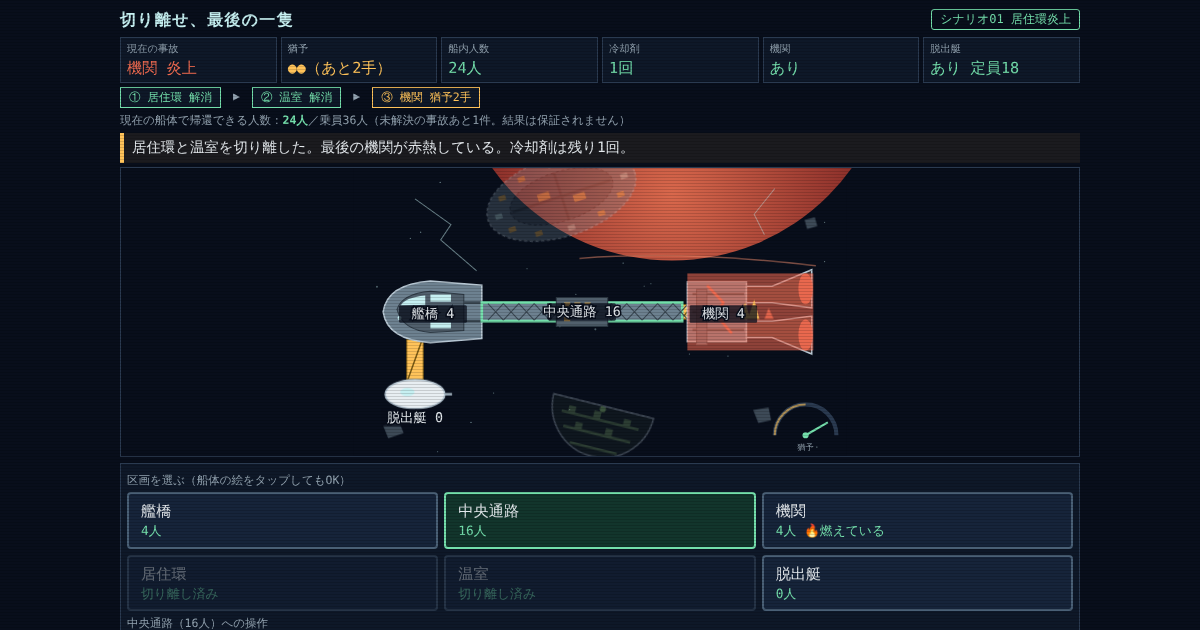
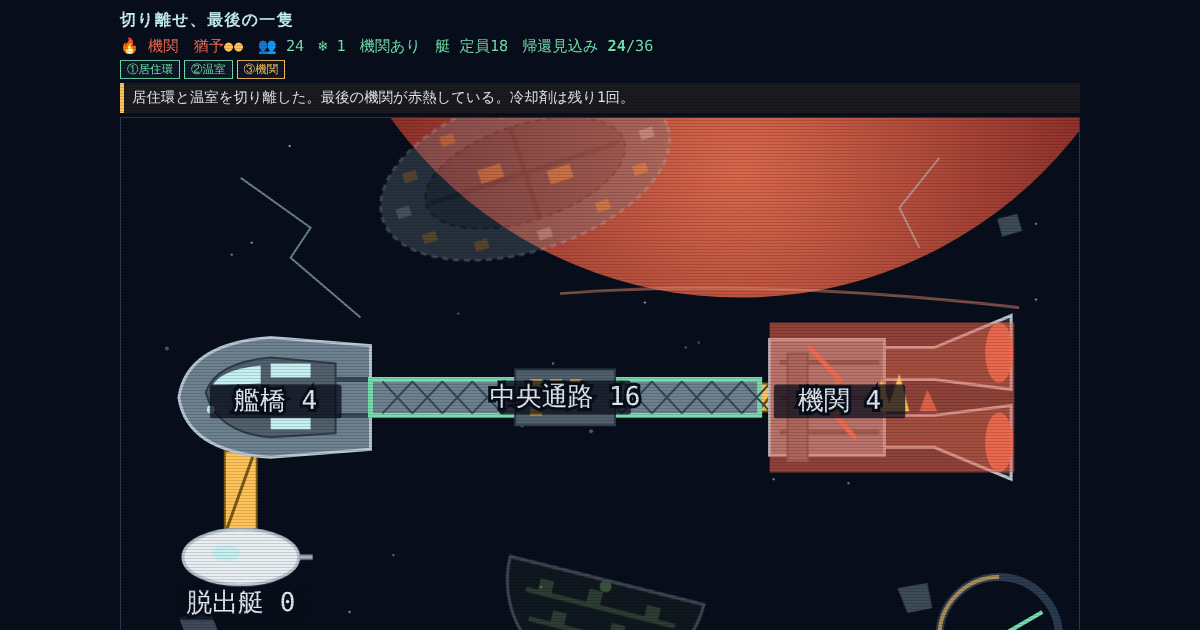
[FIX] 切り離せ、最後の一隻：文字を減らして船の絵を主役に
Claude-Session: https://claude.ai/code/session_01MokQntdd3n6K58QCqVKUx1

diff --git a/site/games/last-hull/game.js b/site/games/last-hull/game.js
@@ -35,7 +35,7 @@ const cutsOf = (s, c) => {
   return out.filter((k) => preview(s, { type: 'cut', child: k }).valid);
 };
 
-function initialGuide() { return '居住環を選び、8人を中央通路へ逃がそう。目的：機関か脱出艇に人を残したまま、全事故を解消して帰還する。'; }
+function initialGuide() { return '🔥 居住環が燃えている。人を逃がすか、切り離せ。'; }
 
 function pendingPreview() {
   if (!ui.pending) return null;
@@ -78,26 +78,22 @@ function renderShip() {
 function renderStatus() {
   const sc = scenarioById(state.scenario);
   const inc = currentIncident(state);
-  const turns = inc ? '●'.repeat(state.turns) + '○'.repeat(Math.max(0, inc.turns - state.turns)) + `（あと${state.turns}手）` : '—';
-  const cells = [
-    ['現在の事故', inc ? `${NAMES[inc.at]} 炎上` : state.result?.outcome === 'lost' ? '船喪失' : '解消', inc ? 'bad' : ''],
-    ['猶予', turns, inc && state.turns <= 1 ? 'bad' : inc ? 'warn' : ''],
-    ['船内人数', `${remaining(state)}人`, ''],
-    ['冷却剤', `${state.coolant}回`, state.coolant ? '' : 'warn'],
-    ['機関', hasEngine(state) ? 'あり' : '喪失', hasEngine(state) ? '' : 'bad'],
-    ['脱出艇', hasPod(state) ? `あり 定員${sc.pod}` : '喪失', hasPod(state) ? '' : 'bad'],
+  const turns = inc ? '●'.repeat(state.turns) + '○'.repeat(Math.max(0, inc.turns - state.turns)) : '';
+  const items = [
+    inc ? `<span class="it bad" title="現在の事故と猶予">🔥 ${NAMES[inc.at]}　猶予<em class="${state.turns <= 1 ? 'bad' : 'warn'}">${turns}</em></span>`
+      : `<span class="it">${state.result?.outcome === 'lost' ? '船喪失' : '事故解消'}</span>`,
+    `<span class="it" title="船内人数">👥 ${remaining(state)}</span>`,
+    `<span class="it ${state.coolant ? '' : 'warn'}" title="冷却剤の残り">❄ ${state.coolant}</span>`,
+    `<span class="it ${hasEngine(state) ? '' : 'bad'}" title="機関">機関${hasEngine(state) ? 'あり' : 'なし'}</span>`,
+    `<span class="it ${hasPod(state) ? '' : 'bad'}" title="脱出艇（定員）">${hasPod(state) ? `艇 定員${sc.pod}` : '艇なし'}</span>`,
   ];
+  if (state.phase === 'play') items.push(`<span class="it" title="現在の船体で帰還できる人数（残りの事故しだいで変わる）">帰還見込み <strong>${projectedReturn(state)}</strong>/${TOTAL}</span>`);
   const chain = sc.incidents.map((x, i) => {
     const cls = state.skipped.includes(i) ? 'skip' : state.resolved.includes(i) ? 'done' : (inc && i === state.incident) ? 'now' : '';
-    const mark = state.skipped.includes(i) ? '切断済み' : state.resolved.includes(i) ? '解消' : `猶予${x.turns}手`;
-    return `<span class="chip ${cls}">${'①②③'[i]} ${NAMES[x.at]} ${mark}</span>`;
-  }).join('<span class="chip" style="border:0;background:none">▶</span>');
-  const proj = state.phase === 'play'
-    ? `現在の船体で帰還できる人数：<strong>${projectedReturn(state)}人</strong>／乗員${TOTAL}人（未解決の事故あと${incidentsLeft(state)}件。結果は保証されません）`
-    : '';
-  $('status').innerHTML = cells.map(([k, v, c]) => `<div class="cell ${c}"><b>${k}</b><span>${v}</span></div>`).join('')
-    + `<div class="chain" aria-label="事故の予定">${chain}</div><div class="proj">${proj}</div>`;
-  $('scenarioTag').textContent = `シナリオ${String(sc.id).padStart(2, '0')} ${sc.name}`;
+    return `<span class="chip ${cls}" title="事故${i + 1}：${NAMES[x.at]}（猶予${x.turns}手）">${'①②③'[i]}${NAMES[x.at]}</span>`;
+  }).join('');
+  $('status').innerHTML = `<div class="strip">${items.join('')}</div><div class="chain" aria-label="事故の予定">${chain}</div>`;
+  $('scenarioTag').textContent = '';
 }
 
 const btn = (cls, label, attrs = '') => `<button type="button" class="${cls}" ${attrs}>${label}</button>`;
@@ -106,8 +102,8 @@ function scenarioButtons() {
   return SCENARIOS.map((sc) => {
     const open = isUnlocked(progress, sc.id);
     const best = progress.best[sc.id];
-    const sub = open ? (best !== undefined ? `ベスト${best}人` : '未挑戦') : unlockCondition(sc.id);
-    return btn(`sc ${state.scenario === sc.id ? 'sel' : ''}`, `シナリオ${String(sc.id).padStart(2, '0')} ${sc.name}<small style="display:block;color:var(--dim);font-size:.7rem">${sub}</small>`, `data-sc="${sc.id}" ${open ? '' : 'disabled aria-disabled="true"'}`);
+    const sub = open ? (best !== undefined ? ` 最高${best}人` : '') : '';
+    return btn(`sc small ${state.scenario === sc.id ? 'sel' : ''}`, `${open ? '' : '🔒'}${String(sc.id).padStart(2, '0')} ${sc.name}${sub}`, `data-sc="${sc.id}" title="${open ? sc.name : unlockCondition(sc.id)}" ${open ? '' : 'disabled aria-disabled="true"'}`);
   }).join('');
 }
 
@@ -116,11 +112,11 @@ function renderPanel() {
   if (state.phase === 'done') { p.innerHTML = resultHtml(); return; }
   const inc = currentIncident(state);
   const conn = connected(state);
-  let h = '<div class="lab">区画を選ぶ（船体の絵をタップしてもOK）</div><div class="row">';
+  let h = '<div class="row comps">';
   for (const c of ['C', 'H', 'E', 'L', 'G', 'P']) {
     const off = !conn.has(c);
-    h += btn(`comp ${ui.sel === c ? 'sel' : ''}`, `${NAMES[c]}<small>${off ? '切り離し済み' : `${state.people[c]}人${inc && inc.at === c ? ' 🔥燃えている' : ''}`}</small>`,
-      `data-comp="${c}" aria-pressed="${ui.sel === c}" ${off || ui.lock ? 'disabled' : ''}`);
+    h += btn(`comp ${ui.sel === c ? 'sel' : ''} ${inc && inc.at === c ? 'burning' : ''}`, `${inc && inc.at === c ? '🔥' : ''}${NAMES[c]} ${off ? '—' : state.people[c]}`,
+      `data-comp="${c}" aria-label="${NAMES[c]} ${off ? '切り離し済み' : `${state.people[c]}人`}${inc && inc.at === c ? ' 燃えている' : ''}" aria-pressed="${ui.sel === c}" ${off || ui.lock ? 'disabled' : ''}`);
   }
   h += '</div>';
   const pv = pendingPreview();
@@ -128,20 +124,18 @@ function renderPanel() {
     h += pendingHtml(pv);
   } else if (ui.sel && conn.has(ui.sel)) {
     const c = ui.sel;
-    h += `<div class="lab">${NAMES[c]}（${state.people[c]}人）への操作</div><div class="row">`;
+    h += '<div class="row">';
     for (const t of evacTargets(state, c)) {
       const pr = preview(state, { type: 'evac', from: c, to: t });
-      h += btn('go', `${NAMES[t]}へ${pr.valid ? pr.moved : 0}人避難（1手）`, `data-evac="${c}:${t}" ${!pr.valid || ui.lock ? 'disabled' : ''}`);
+      h += btn('go', `→${NAMES[t]}へ ${pr.valid ? pr.moved : 0}人`, `data-evac="${c}:${t}" title="1手使う" ${!pr.valid || ui.lock ? 'disabled' : ''}`);
     }
-    for (const k of cutsOf(state, c)) h += btn('cutbtn', `✂ ${edgeLabel(k)} を切る`, `data-cut="${k}" ${ui.lock ? 'disabled' : ''}`);
+    for (const k of cutsOf(state, c)) h += btn('cutbtn', `✂ ${edgeLabel(k)}`, `data-cut="${k}" title="切断（1手）" ${ui.lock ? 'disabled' : ''}`);
     h += '</div>';
-  } else {
-    h += '<div class="note">区画を選ぶと、避難先と切断の選択肢が出ます。</div>';
   }
   if (!pv) {
-    h += `<div class="row">${btn('cool', `❄ 冷却剤で${NAMES[inc.at]}の火を消す（手数を使わない・残り${state.coolant}回）`, `data-cool="1" ${state.coolant <= 0 || ui.lock ? 'disabled' : ''}`)}</div>`;
+    h += `<div class="row">${btn('cool', `❄ ${NAMES[inc.at]}を冷却（残${state.coolant}）`, `data-cool="1" title="手数を使わずに火を消す。全体で1回だけ" ${state.coolant <= 0 || ui.lock ? 'disabled' : ''}`)}</div>`;
   }
-  h += `<div class="row noog">${scenarioButtons()}${btn('', 'この事故をやり直す', 'data-restart="1"')}</div>`;
+  h += `<div class="row noog sub">${scenarioButtons()}${btn('small', '↺ やり直す', 'data-restart="1"')}</div>`;
   p.innerHTML = h;
 }
 

diff --git a/site/games/last-hull/style.css b/site/games/last-hull/style.css
@@ -18,25 +18,23 @@ body::after { /* 薄い走査線 */
 h1 { font-size: 1rem; margin: 0; color: var(--bridge); letter-spacing: .08em; }
 .tag { font-size: .75rem; color: var(--crt); border: 1px solid var(--crt); padding: 1px 8px; border-radius: 3px; white-space: nowrap; }
 
-.status { display: grid; grid-template-columns: repeat(6, 1fr); gap: 4px; margin: 6px 0 4px; }
-.cell { background: var(--panel); border: 1px solid var(--line); padding: 3px 6px; min-width: 0; }
-.cell b { display: block; font-size: .64rem; color: var(--dim); font-weight: 400; }
-.cell span { font-size: .95rem; color: var(--crt); }
-.cell.warn span { color: var(--amber); }
-.cell.bad span { color: var(--fire); }
-.chain { grid-column: 1 / -1; display: flex; gap: 4px; flex-wrap: wrap; font-size: .72rem; }
-.chip { border: 1px solid var(--line); padding: 1px 8px; color: var(--dim); background: var(--panel); }
+.status { margin: 4px 0; }
+.strip { display: flex; flex-wrap: wrap; gap: 4px 14px; align-items: baseline; font-size: .95rem; color: var(--crt); }
+.it { white-space: nowrap; }
+.it.warn, em.warn { color: var(--amber); } .it.bad, em.bad { color: var(--fire); }
+.it em { font-style: normal; letter-spacing: .05em; }
+.it strong { color: var(--crt); }
+.chain { display: flex; gap: 4px; flex-wrap: wrap; font-size: .72rem; margin-top: 3px; }
+.chip { border: 1px solid var(--line); padding: 0 6px; color: var(--dim); background: var(--panel); }
 .chip.now { border-color: var(--amber); color: var(--amber); }
 .chip.done { border-color: var(--crt); color: var(--crt); }
 .chip.skip { text-decoration: line-through; }
-.proj { grid-column: 1 / -1; font-size: .72rem; color: var(--dim); }
-.proj strong { color: var(--crt); }
 
 .guide { margin: 4px 0; padding: 4px 8px; border-left: 4px solid var(--amber); background: rgba(255,195,90,.08); font-size: .9rem; min-height: 2.1em; }
 .guide.bad { border-color: var(--fire); background: rgba(241,107,80,.1); }
 
 .stage { position: relative; }
-.stage svg { display: block; width: 100%; height: auto; max-height: 46vh; border: 1px solid var(--line); background: #080E1B; }
+.stage svg { display: block; width: 100%; height: auto; max-height: 60vh; border: 1px solid var(--line); background: #080E1B; }
 
 .panel { margin: 6px 0; padding: 6px; background: var(--panel); border: 1px solid var(--line); }
 .row { display: flex; flex-wrap: wrap; gap: 6px; margin: 4px 0; }
@@ -49,7 +47,10 @@ button:hover { border-color: var(--bridge); }
 button:focus-visible, .part:focus-visible { outline: 3px solid var(--amber); outline-offset: 2px; }
 button[disabled] { opacity: .4; cursor: not-allowed; }
 button.sel { border-color: var(--crt); background: #12352c; }
-button.comp { flex: 1 1 28%; min-width: 0; text-align: left; }
+button.comp { flex: 1 1 28%; min-width: 0; min-height: 36px; padding: 2px 6px; font-size: .82rem; }
+button.comp.burning { border-color: var(--fire); color: #ffd9d0; }
+button.small { min-height: 34px; font-size: .78rem; padding: 3px 8px; }
+.row.sub { opacity: .85; }
 button.comp small { display: block; color: var(--crt); font-size: .8rem; }
 button.go { border-color: var(--crt); }
 button.cutbtn { border-color: var(--amber); color: var(--amber); }
@@ -62,6 +63,9 @@ button.cool { border-color: #7fd6ff; color: #bfeaff; }
 .result h2 { margin: 4px 0; font-size: 1.3rem; }
 .result.ok h2 { color: var(--crt); }
 .result.ng h2 { color: var(--fire); }
+.cell { background: var(--panel); border: 1px solid var(--line); padding: 3px 6px; min-width: 0; }
+.cell b { display: block; font-size: .64rem; color: var(--dim); font-weight: 400; }
+.cell span { font-size: .95rem; color: var(--crt); }
 .stats { display: grid; grid-template-columns: repeat(3, 1fr); gap: 4px; margin: 6px 0; }
 .stats .cell span { font-size: 1.2rem; }
 .share { width: 100%; background: var(--space); color: var(--text); border: 1px solid var(--line); padding: 6px; font: inherit; font-size: .85rem; min-height: 3.2em; }
@@ -72,11 +76,13 @@ button.cool { border-color: #7fd6ff; color: #bfeaff; }
 .og .arcade-link, .og .panel .row.noog { display: none; }
 
 @media (max-width: 640px) {
-  .status { grid-template-columns: repeat(3, 1fr); }
-  .cell span { font-size: .85rem; }
+  .strip { font-size: .85rem; gap: 2px 10px; }
   .guide { font-size: .82rem; }
-  .stage svg { max-height: 34vh; }
+  .stage svg { max-height: 52vh; }
   button { font-size: .88rem; padding: 4px 8px; }
   button.comp { flex: 1 1 30%; }
 }
 @media (prefers-reduced-motion: reduce) { * { animation: none !important; transition: none !important; } }
+.tag:empty { display: none; }
+.og .panel { display: none; }
+.og .stage svg { max-height: none; }

diff --git a/site/games/last-hull/ship.js b/site/games/last-hull/ship.js
@@ -140,7 +140,7 @@ export function shipSvg() {
   <g id="shipbody"><g class="wake"><polygon points="900,205 960,215 900,235"/><polygon points="900,325 960,335 900,355"/></g>
   ${edges}${parts}</g>
   <g id="dots"></g>
-  <g transform="translate(0,0)"><path d="M820 520 A60 60 0 0 1 940 520" fill="none" stroke="#2A3A50" stroke-width="8"/><path d="M820 520 A60 60 0 0 1 880 460" fill="none" stroke="#FFC35A" stroke-width="4" opacity=".6"/><text x="880" y="548" fill="#93A3B0" font-size="16" text-anchor="middle">猶予</text><line id="needle" class="needle" x1="880" y1="520" x2="880" y2="470" stroke="#74DFAC" stroke-width="4"/><circle cx="880" cy="520" r="6" fill="#74DFAC"/></g>
+  <g transform="translate(0,0)"><path d="M820 520 A60 60 0 0 1 940 520" fill="none" stroke="#2A3A50" stroke-width="8"/><path d="M820 520 A60 60 0 0 1 880 460" fill="none" stroke="#FFC35A" stroke-width="4" opacity=".6"/><text x="880" y="552" fill="#93A3B0" font-size="22" text-anchor="middle">猶予</text><line id="needle" class="needle" x1="880" y1="520" x2="880" y2="470" stroke="#74DFAC" stroke-width="4"/><circle cx="880" cy="520" r="6" fill="#74DFAC"/></g>
 </svg>`;
 }
 export { OUTLINE, EDGE, NAMES };
